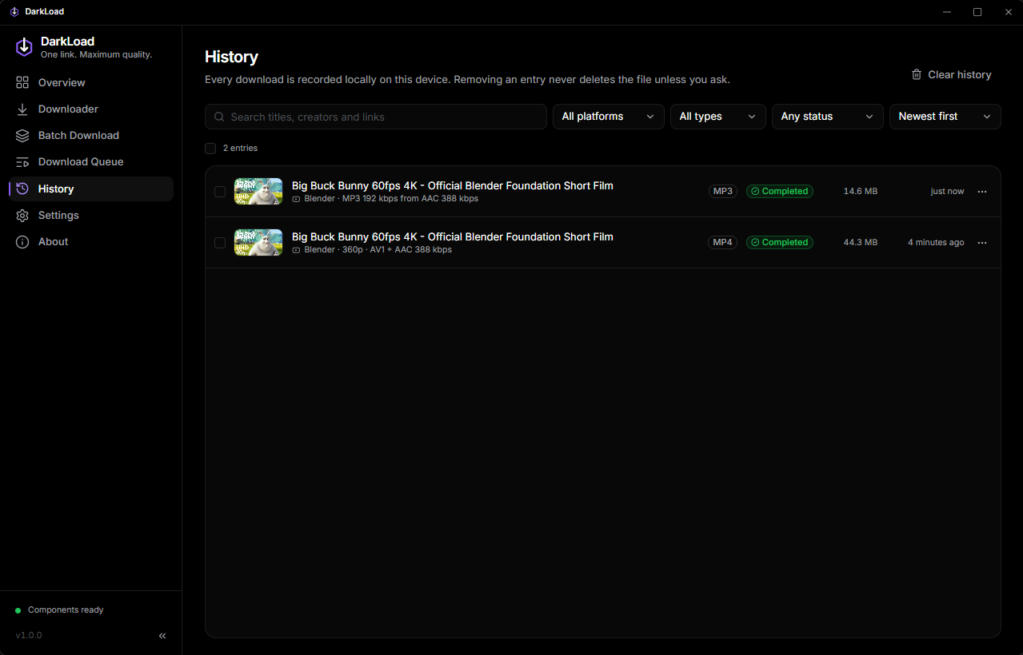
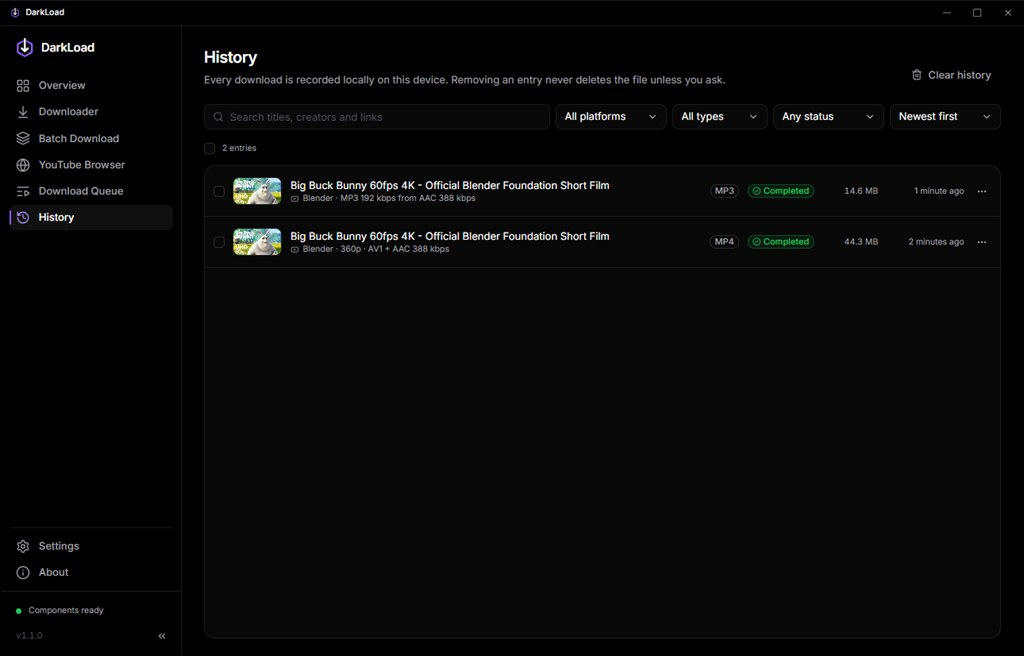
Update README screenshots

diff --git a/README.md b/README.md
@@ -54,6 +54,8 @@ It is a native desktop application built with Tauri and Rust, with a pure-black 
 - Collapsible sidebar, custom title bar (or the system frame), remembered window size and position.
 - Full keyboard navigation and shortcuts, reduced-motion support and accessible contrast.
 
+![YouTube Browser with three Blender open movies ticked on their thumbnails and gathered in the selection panel, ready to download together](docs/screenshots/youtube-browser.jpg)
+
 | Queue with separate download and conversion progress | Local history |
 | --- | --- |
 | ![Download Queue](docs/screenshots/queue.jpg) | ![History](docs/screenshots/history.jpg) |
